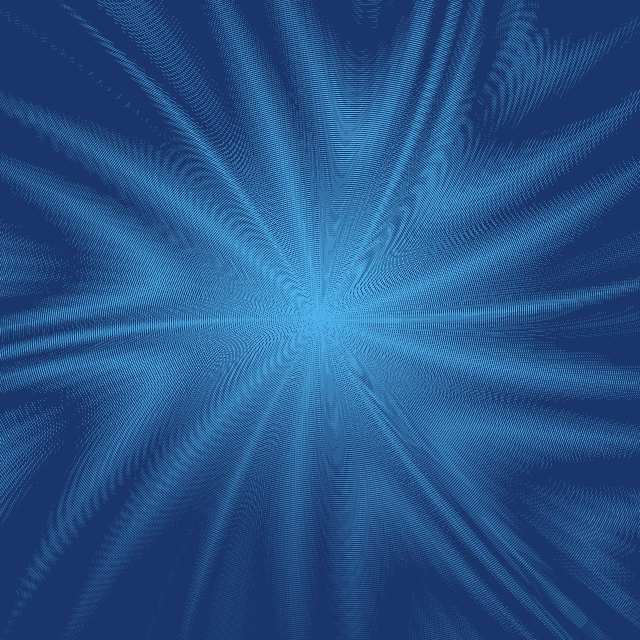
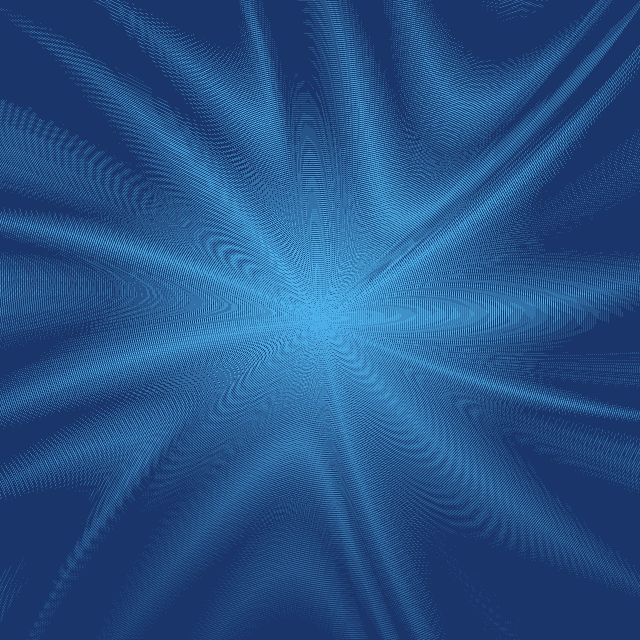
Added interpolation and animation.

diff --git a/README.md b/README.md
@@ -3,3 +3,4 @@ Generating flowers, stars, clovers, etc. and then experimenting with interferenc
 
 ![Bezier Flower](https://raw.githubusercontent.com/danielgm/BezierFlowers/master/BezierFlowerApp/render.png)
 ![Bezier Flower Inteference Pattern](https://raw.githubusercontent.com/danielgm/BezierFlowers/master/InterferenceApp/render.png)
+![Bezier Flower Inteference Pattern Animation](https://raw.githubusercontent.com/danielgm/BezierFlowers/master/AnimationApp/render.png)
